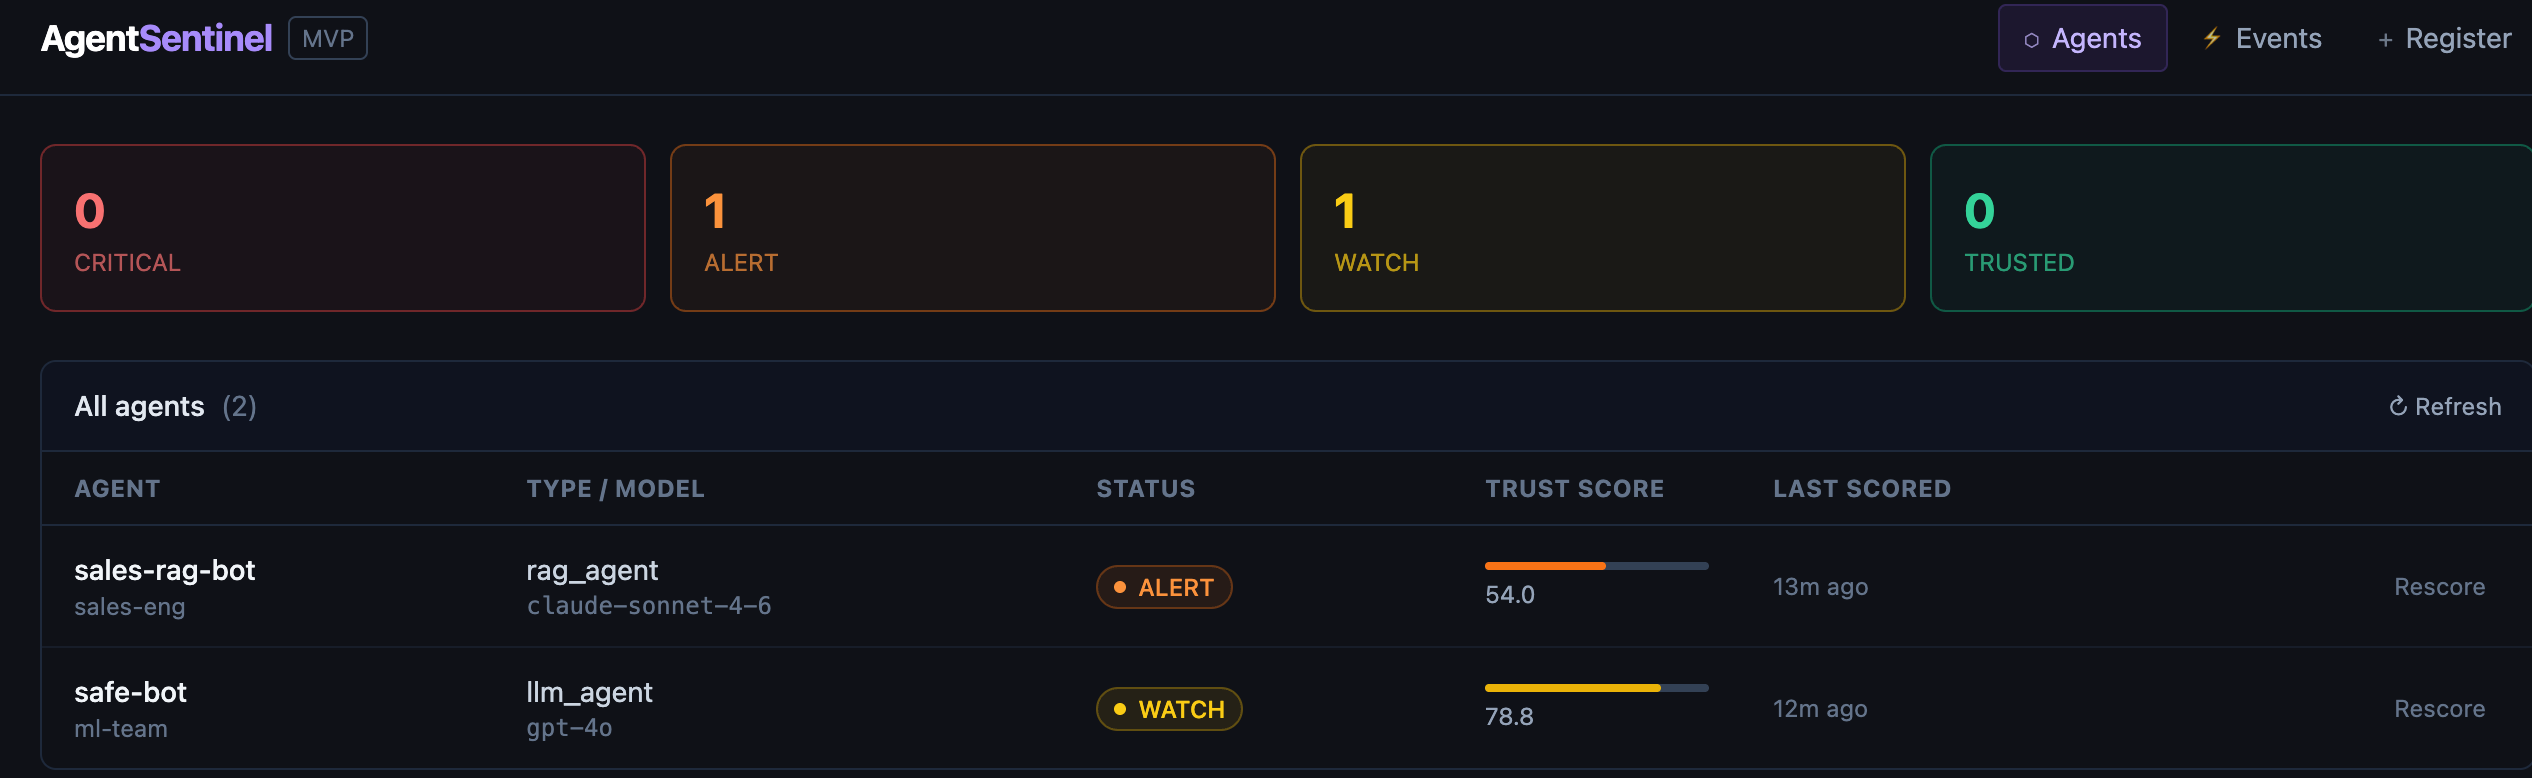
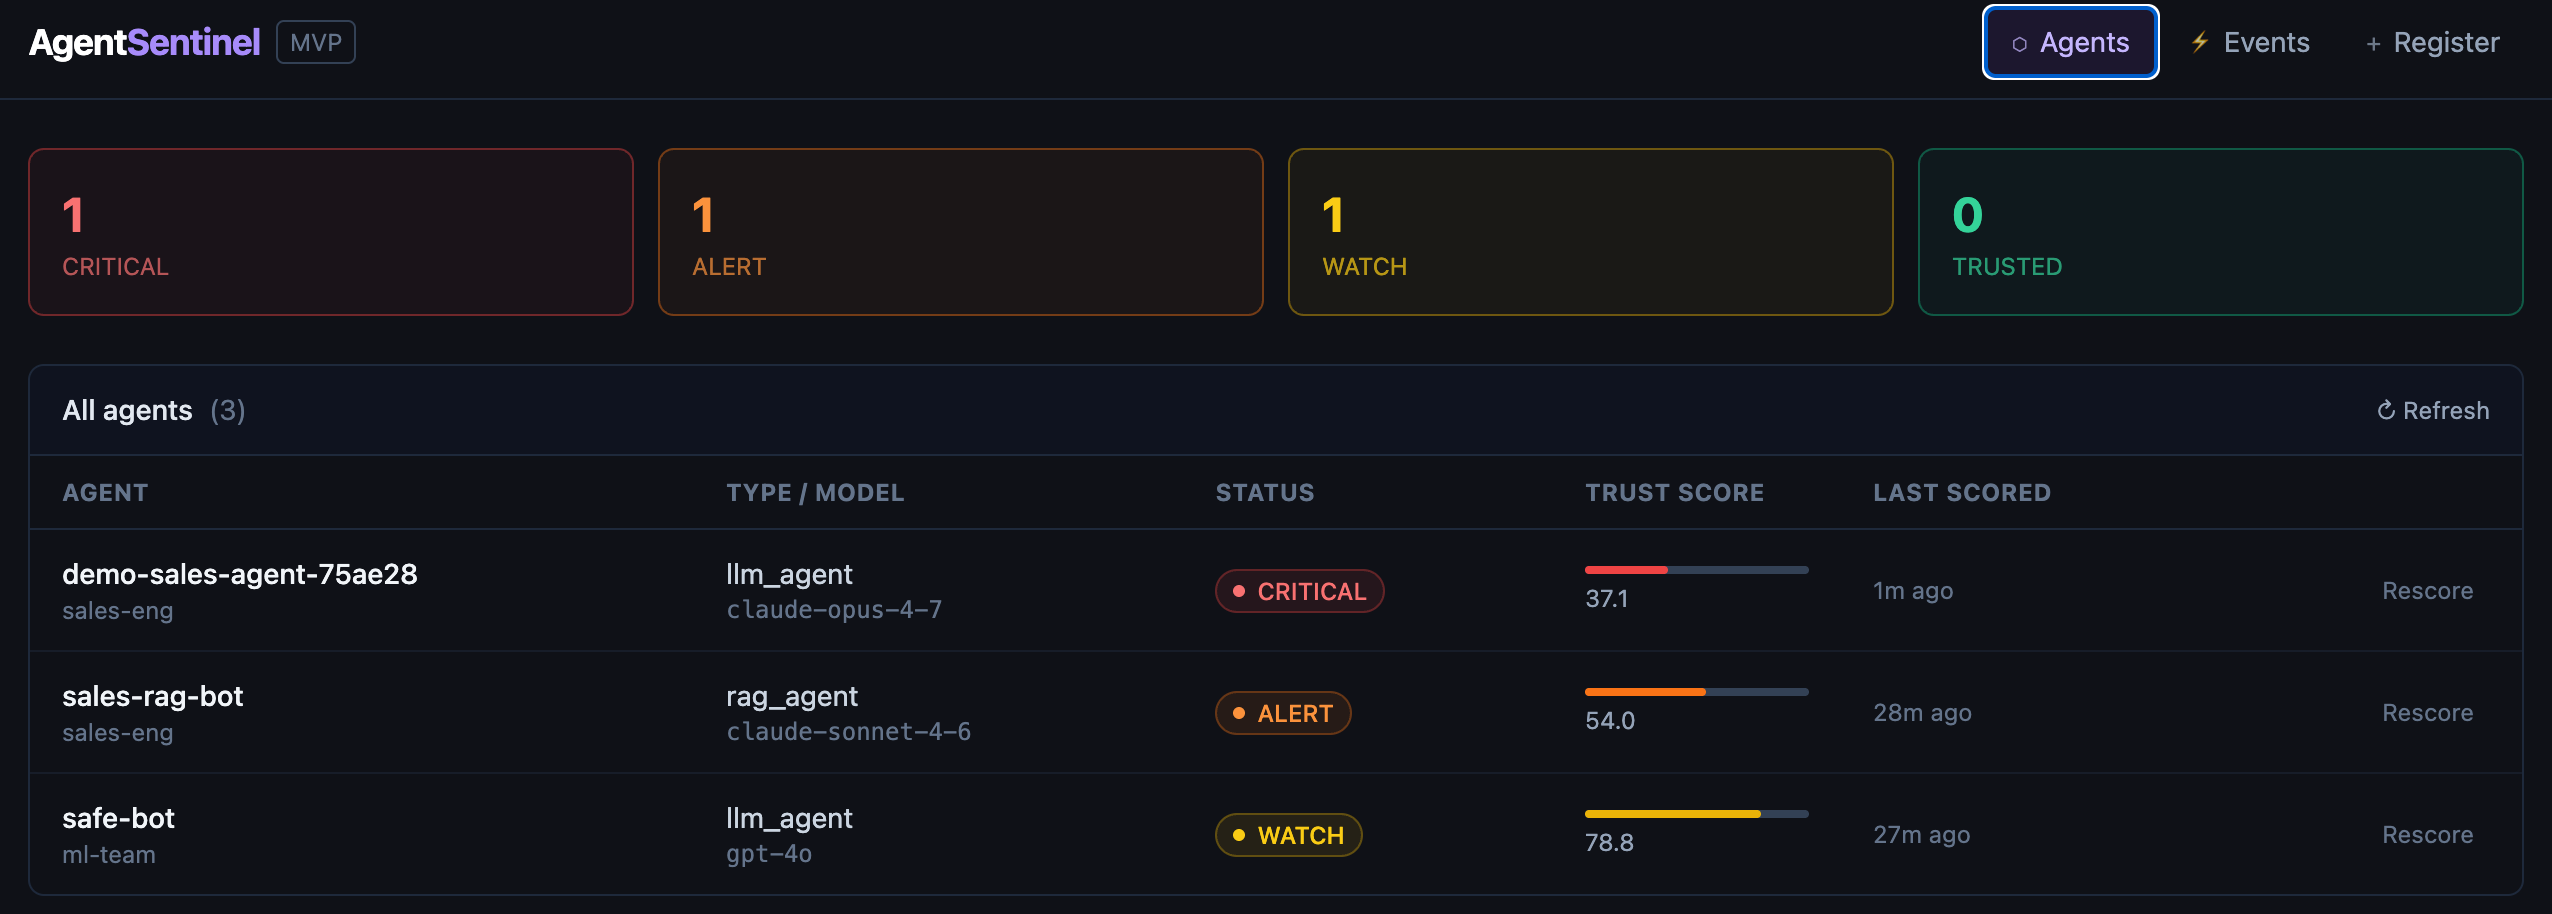
fix: add X-API-Key header to UI API client
All fetch calls now include the key from VITE_API_KEY (set in ui/.env).
Added ui/.env to .gitignore so the key is never committed.

diff --git a/ui/src/lib/api.js b/ui/src/lib/api.js
@@ -1,8 +1,13 @@
 const BASE = '/api/v1'
+const API_KEY = import.meta.env.VITE_API_KEY || ''
 
 async function req(path, options = {}) {
   const res = await fetch(`${BASE}${path}`, {
-    headers: { 'Content-Type': 'application/json', ...options.headers },
+    headers: {
+      'Content-Type': 'application/json',
+      ...(API_KEY ? { 'X-API-Key': API_KEY } : {}),
+      ...options.headers,
+    },
     ...options,
   })
   if (!res.ok) {
